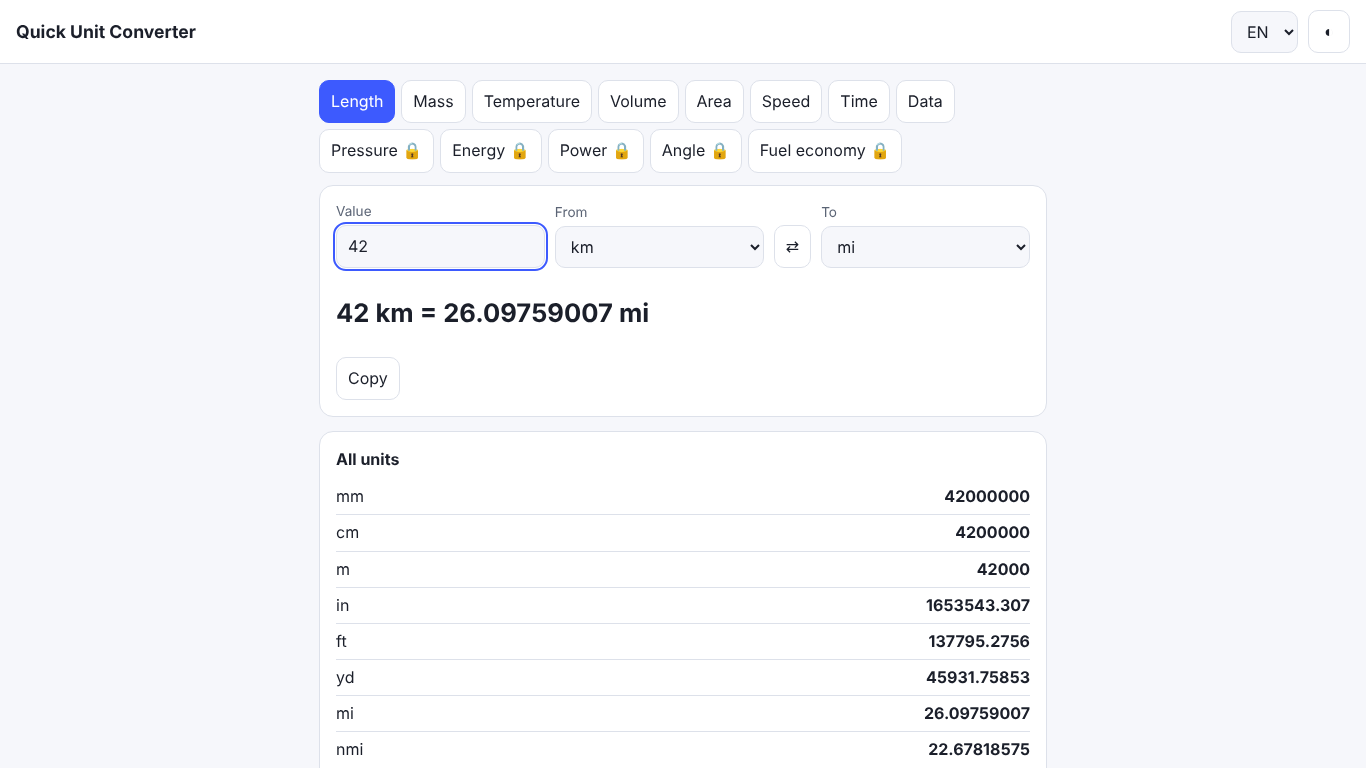
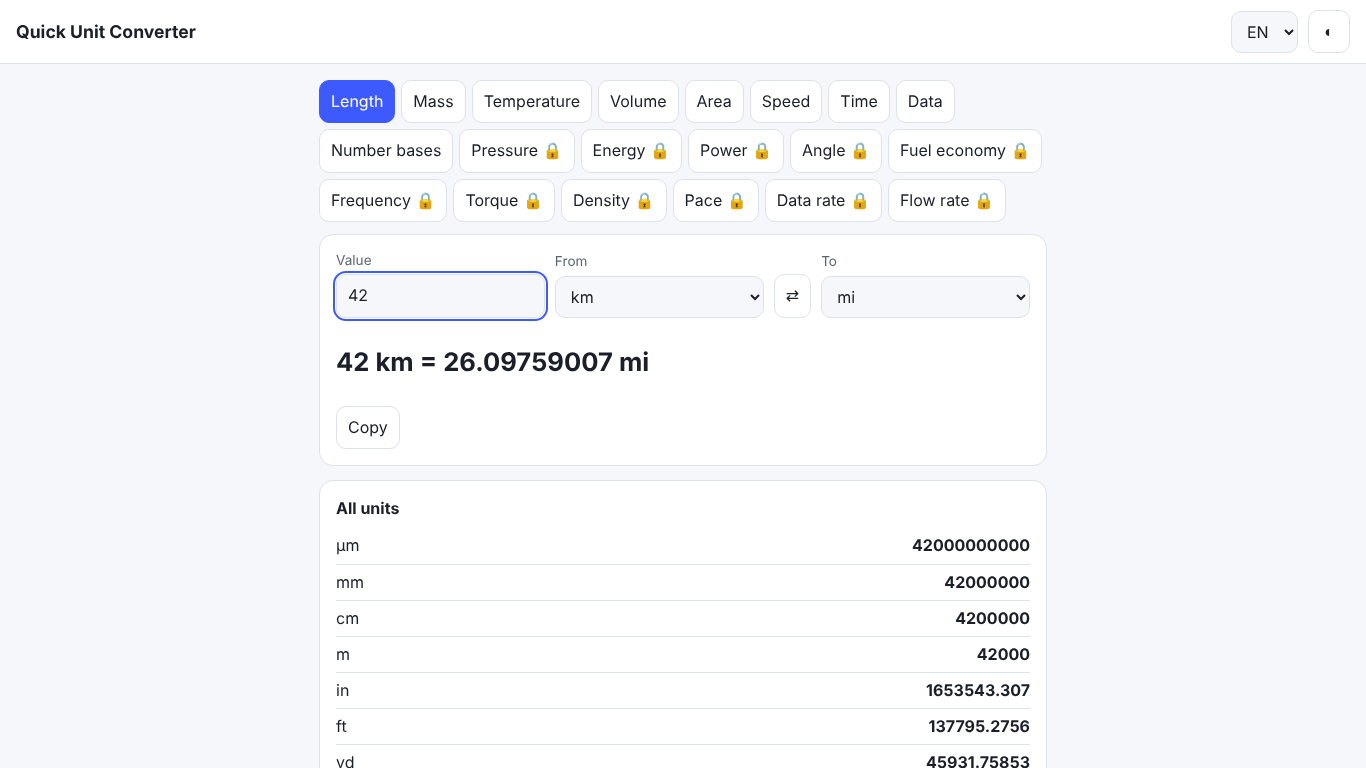
Stelar Unit Converter: number bases, pace and data rate
Free: new Number bases category (binary/octal/decimal/hex, BigInt, any size,
0b/0o/0x prefixes, swap keeps the value), plus µm, carat, US pint and quart.
Pro: running pace (min/km, min/mi, km/h, mph; m:ss input and output) and
data rate (bit/s ... GB/s, MiB/s). Unit + e2e tests, store what's new texts,
regenerated converter screenshots.

Claude-Session: https://claude.ai/code/session_01YQDvpoPGKtNh935CpkWmt1

diff --git a/convertor/app.js b/convertor/app.js
@@ -2,23 +2,26 @@
   'use strict';
   const SKU = 'pro';
   const DICT = {
-    ro: { appName: 'Convertor rapid de unități', value: 'Valoare', from: 'Din', to: 'În', swap: 'Inversează', allUnits: 'Toate unitățile', history: 'Istoric', historyLocked: 'Pro păstrează ultimele 30 de conversii.', proPitch: 'Deblochează presiune, energie, putere, unghi, consum, frecvență, cuplu, densitate și debit, plus istoricul conversiilor.', invalid: 'Introdu un număr',
-      length: 'Lungime', mass: 'Masă', temperature: 'Temperatură', volume: 'Volum', area: 'Suprafață', speed: 'Viteză', time: 'Timp', data: 'Date', pressure: 'Presiune', energy: 'Energie', power: 'Putere', angle: 'Unghi', fuel: 'Consum', frequency: 'Frecvență', torque: 'Cuplu', density: 'Densitate', flow: 'Debit' },
-    en: { appName: 'Quick Unit Converter', value: 'Value', from: 'From', to: 'To', swap: 'Swap', allUnits: 'All units', history: 'History', historyLocked: 'Pro keeps your last 30 conversions.', proPitch: 'Unlocks pressure, energy, power, angle, fuel economy, frequency, torque, density and flow rate, plus conversion history.', invalid: 'Enter a number',
-      length: 'Length', mass: 'Mass', temperature: 'Temperature', volume: 'Volume', area: 'Area', speed: 'Speed', time: 'Time', data: 'Data', pressure: 'Pressure', energy: 'Energy', power: 'Power', angle: 'Angle', fuel: 'Fuel economy', frequency: 'Frequency', torque: 'Torque', density: 'Density', flow: 'Flow rate' },
-    ru: { appName: 'Быстрый конвертер единиц', value: 'Значение', from: 'Из', to: 'В', swap: 'Поменять', allUnits: 'Все единицы', history: 'История', historyLocked: 'Pro хранит последние 30 конвертаций.', proPitch: 'Открывает давление, энергию, мощность, углы, расход топлива, частоту, крутящий момент, плотность и расход, а также историю.', invalid: 'Введите число',
-      length: 'Длина', mass: 'Масса', temperature: 'Температура', volume: 'Объём', area: 'Площадь', speed: 'Скорость', time: 'Время', data: 'Данные', pressure: 'Давление', energy: 'Энергия', power: 'Мощность', angle: 'Угол', fuel: 'Расход топлива', frequency: 'Частота', torque: 'Крутящий момент', density: 'Плотность', flow: 'Расход' }
+    ro: { appName: 'Convertor rapid de unități', value: 'Valoare', from: 'Din', to: 'În', swap: 'Inversează', allUnits: 'Toate unitățile', history: 'Istoric', historyLocked: 'Pro păstrează ultimele 30 de conversii.', proPitch: 'Deblochează presiune, energie, putere, unghi, consum, frecvență, cuplu, densitate, debit, ritm de alergare (min/km) și viteză de transfer, plus istoricul conversiilor.', invalid: 'Introdu un număr', invalidBase: 'Introdu un număr întreg valid în această bază', paceHint: 'Ritmul se poate scrie și ca minute:secunde, de ex. 5:30.', basesHint: 'Numere întregi de orice mărime; sunt acceptate prefixele 0b, 0o, 0x.',
+      length: 'Lungime', mass: 'Masă', temperature: 'Temperatură', volume: 'Volum', area: 'Suprafață', speed: 'Viteză', time: 'Timp', data: 'Date', bases: 'Baze numerice', pace: 'Ritm', datarate: 'Viteză de transfer', pressure: 'Presiune', energy: 'Energie', power: 'Putere', angle: 'Unghi', fuel: 'Consum', frequency: 'Frecvență', torque: 'Cuplu', density: 'Densitate', flow: 'Debit' },
+    en: { appName: 'Quick Unit Converter', value: 'Value', from: 'From', to: 'To', swap: 'Swap', allUnits: 'All units', history: 'History', historyLocked: 'Pro keeps your last 30 conversions.', proPitch: 'Unlocks pressure, energy, power, angle, fuel economy, frequency, torque, density, flow rate, running pace (min/km) and data rate, plus conversion history.', invalid: 'Enter a number', invalidBase: 'Enter a valid whole number in this base', paceHint: 'Pace can also be typed as minutes:seconds, e.g. 5:30.', basesHint: 'Whole numbers of any size; 0b, 0o and 0x prefixes are accepted.',
+      length: 'Length', mass: 'Mass', temperature: 'Temperature', volume: 'Volume', area: 'Area', speed: 'Speed', time: 'Time', data: 'Data', bases: 'Number bases', pace: 'Pace', datarate: 'Data rate', pressure: 'Pressure', energy: 'Energy', power: 'Power', angle: 'Angle', fuel: 'Fuel economy', frequency: 'Frequency', torque: 'Torque', density: 'Density', flow: 'Flow rate' },
+    ru: { appName: 'Быстрый конвертер единиц', value: 'Значение', from: 'Из', to: 'В', swap: 'Поменять', allUnits: 'Все единицы', history: 'История', historyLocked: 'Pro хранит последние 30 конвертаций.', proPitch: 'Открывает давление, энергию, мощность, углы, расход топлива, частоту, крутящий момент, плотность, расход, темп бега (мин/км) и скорость передачи данных, а также историю.', invalid: 'Введите число', invalidBase: 'Введите правильное целое число в этой системе', paceHint: 'Темп можно вводить как минуты:секунды, например 5:30.', basesHint: 'Целые числа любой длины; префиксы 0b, 0o и 0x допускаются.',
+      length: 'Длина', mass: 'Масса', temperature: 'Температура', volume: 'Объём', area: 'Площадь', speed: 'Скорость', time: 'Время', data: 'Данные', bases: 'Системы счисления', pace: 'Темп', datarate: 'Скорость передачи', pressure: 'Давление', energy: 'Энергия', power: 'Мощность', angle: 'Угол', fuel: 'Расход топлива', frequency: 'Частота', torque: 'Крутящий момент', density: 'Плотность', flow: 'Расход' }
   };
-  const LABEL = { C: '°C', F: '°F', K: 'K', m2: 'm²', cm2: 'cm²', km2: 'km²', ft2: 'ft²', mi2: 'mi²', m3: 'm³', mps: 'm/s', kmh: 'km/h', galUS: 'gal (US)', galUK: 'gal (UK)', floz: 'fl oz', l100: 'L/100 km', kml: 'km/L', mpgUS: 'mpg (US)', mpgUK: 'mpg (UK)', deg: '°', b: 'bit', B: 'byte', Nm: 'N·m', kNm: 'kN·m', kgfm: 'kgf·m', lbfft: 'lbf·ft', lbfin: 'lbf·in', kgm3: 'kg/m³', gcm3: 'g/cm³', gml: 'g/mL', gl: 'g/L', lbft3: 'lb/ft³', lbgalUS: 'lb/gal (US)', m3s: 'm³/s', m3h: 'm³/h', ls: 'L/s', lmin: 'L/min', galUSmin: 'gal/min (US)', cfm: 'ft³/min' };
-  const DEFAULTS = { length: ['km', 'mi'], mass: ['kg', 'lb'], temperature: ['C', 'F'], volume: ['l', 'galUS'], area: ['m2', 'ft2'], speed: ['kmh', 'mph'], time: ['h', 'min'], data: ['GB', 'MB'], pressure: ['bar', 'psi'], energy: ['kcal', 'kJ'], power: ['kW', 'hp'], angle: ['deg', 'rad'], fuel: ['l100', 'mpgUS'], frequency: ['rpm', 'Hz'], torque: ['Nm', 'lbfft'], density: ['gcm3', 'kgm3'], flow: ['lmin', 'galUSmin'] };
+  const LABEL = { C: '°C', F: '°F', K: 'K', m2: 'm²', cm2: 'cm²', km2: 'km²', ft2: 'ft²', mi2: 'mi²', m3: 'm³', mps: 'm/s', kmh: 'km/h', galUS: 'gal (US)', galUK: 'gal (UK)', floz: 'fl oz', l100: 'L/100 km', kml: 'km/L', mpgUS: 'mpg (US)', mpgUK: 'mpg (UK)', deg: '°', b: 'bit', B: 'byte', Nm: 'N·m', kNm: 'kN·m', kgfm: 'kgf·m', lbfft: 'lbf·ft', lbfin: 'lbf·in', kgm3: 'kg/m³', gcm3: 'g/cm³', gml: 'g/mL', gl: 'g/L', lbft3: 'lb/ft³', lbgalUS: 'lb/gal (US)', m3s: 'm³/s', m3h: 'm³/h', ls: 'L/s', lmin: 'L/min', galUSmin: 'gal/min (US)', cfm: 'ft³/min', um: 'µm', ct: 'ct', ptUS: 'pt (US)', qtUS: 'qt (US)', bin: 'BIN (2)', oct: 'OCT (8)', dec: 'DEC (10)', hex: 'HEX (16)', minkm: 'min/km', minmi: 'min/mi', bps: 'bit/s', kbps: 'kbit/s', Mbps: 'Mbit/s', Gbps: 'Gbit/s', Bps: 'B/s', kBps: 'kB/s', MBps: 'MB/s', GBps: 'GB/s', MiBps: 'MiB/s' };
+  const DEFAULTS = { length: ['km', 'mi'], mass: ['kg', 'lb'], temperature: ['C', 'F'], volume: ['l', 'galUS'], area: ['m2', 'ft2'], speed: ['kmh', 'mph'], time: ['h', 'min'], data: ['GB', 'MB'], bases: ['dec', 'hex'], pace: ['minkm', 'kmh'], datarate: ['Mbps', 'MBps'], pressure: ['bar', 'psi'], energy: ['kcal', 'kJ'], power: ['kW', 'hp'], angle: ['deg', 'rad'], fuel: ['l100', 'mpgUS'], frequency: ['rpm', 'Hz'], torque: ['Nm', 'lbfft'], density: ['gcm3', 'kgm3'], flow: ['lmin', 'galUSmin'] };
   const $ = id => document.getElementById(id);
   let cat = Core.store('cat') || 'length';
   let isPro = false;
   let history = [];
+  let lastFrom = null;
   try { history = JSON.parse(Core.store('history') || '[]'); } catch (e) { history = []; }
 
   const label = u => LABEL[u] || u;
-  const parse = s => Number(String(s).replace(/\s/g, '').replace(',', '.'));
+  const isPace = u => Units.PACE_UNITS.includes(u);
+  const parse = (s, unit) => isPace(unit) ? Units.parseMinSec(s) : Number(String(s).replace(/\s/g, '').replace(',', '.'));
+  const fmt = (n, unit) => isPace(unit) ? Units.formatMinSec(n) : Units.format(n);
 
   function renderTabs() {
     const box = $('cats'); box.innerHTML = '';
@@ -44,25 +47,45 @@
       units.forEach(u => { const o = document.createElement('option'); o.value = u; o.textContent = label(u); s.appendChild(o); });
       s.value = i ? t : f;
     });
+    lastFrom = $('from').value;
   }
   let histTimer = null;
-  function update() {
-    const v = parse($('value').value);
-    const from = $('from').value, to = $('to').value;
-    if (!Number.isFinite(v) || $('value').value.trim() === '') {
-      $('result').textContent = Core.t('invalid'); $('all').innerHTML = ''; return;
-    }
-    const r = Units.format(Units.convert(cat, from, to, v));
-    $('result').textContent = `${Units.format(v)} ${label(from)} = ${r} ${label(to)}`;
+  function renderHint() {
+    const textCat = !!Units.CATEGORIES[cat].text;
+    $('value').inputMode = textCat ? 'text' : 'decimal';
+    const hint = textCat ? 'basesHint' : cat === 'pace' ? 'paceHint' : '';
+    $('hint').textContent = hint ? Core.t(hint) : '';
+    $('hint').classList.toggle('hidden', !hint);
+  }
+  function listAll(from, valueOf) {
     const all = $('all'); all.innerHTML = '';
     Object.keys(Units.CATEGORIES[cat].units).forEach(u => {
       if (u === from) return;
       const li = document.createElement('li');
       li.innerHTML = '<span></span><strong></strong>';
       li.firstChild.textContent = label(u);
-      li.lastChild.textContent = Units.format(Units.convert(cat, from, u, v));
+      li.lastChild.textContent = valueOf(u);
       all.appendChild(li);
     });
+  }
+  function update() {
+    const raw = $('value').value;
+    const from = $('from').value, to = $('to').value;
+    renderHint();
+    if (Units.CATEGORIES[cat].text) {
+      const r = raw.trim() === '' ? null : Units.convertBase(raw, from, to);
+      if (r === null) { $('result').textContent = Core.t('invalidBase'); $('all').innerHTML = ''; return; }
+      $('result').textContent = `${Units.convertBase(raw, from, from)} ${label(from)} = ${r} ${label(to)}`;
+      listAll(from, u => Units.convertBase(raw, from, u));
+    } else {
+      const v = parse(raw, from);
+      if (!Number.isFinite(v) || raw.trim() === '') {
+        $('result').textContent = Core.t('invalid'); $('all').innerHTML = ''; return;
+      }
+      const r = fmt(Units.convert(cat, from, to, v), to);
+      $('result').textContent = `${fmt(v, from)} ${label(from)} = ${r} ${label(to)}`;
+      listAll(from, u => fmt(Units.convert(cat, from, u, v), u));
+    }
     if (isPro) {
       clearTimeout(histTimer);
       histTimer = setTimeout(() => addHistory($('result').textContent), 1200);
@@ -84,9 +107,23 @@
   if (!Units.CATEGORIES[cat] || Units.CATEGORIES[cat].pro) cat = 'length';
   renderTabs(); renderUnits(); update(); renderHistory();
   $('value').addEventListener('input', update);
-  $('from').addEventListener('change', update);
+  $('from').addEventListener('change', () => {
+    /* Number bases: keep the same number when the input base changes. */
+    if (Units.CATEGORIES[cat].text) {
+      const r = Units.convertBase($('value').value, lastFrom, $('from').value);
+      if (r !== null) $('value').value = r;
+    }
+    lastFrom = $('from').value; update();
+  });
   $('to').addEventListener('change', update);
-  $('swap').addEventListener('click', () => { const f = $('from').value; $('from').value = $('to').value; $('to').value = f; update(); });
+  $('swap').addEventListener('click', () => {
+    const f = $('from').value;
+    if (Units.CATEGORIES[cat].text) {
+      const r = Units.convertBase($('value').value, f, $('to').value);
+      if (r !== null) $('value').value = r;
+    }
+    $('from').value = $('to').value; $('to').value = f; lastFrom = $('from').value; update();
+  });
   $('copy').addEventListener('click', async () => {
     try { await navigator.clipboard.writeText($('result').textContent); $('copy').textContent = Core.t('copied'); setTimeout(() => { $('copy').textContent = Core.t('copy'); }, 1200); } catch (e) { /* clipboard blocked */ }
   });

diff --git a/convertor/logic.js b/convertor/logic.js
@@ -2,14 +2,16 @@
 (function (global) {
   'use strict';
   const C = {
-    length: { pro: false, base: 'm', units: { mm: 0.001, cm: 0.01, m: 1, km: 1000, in: 0.0254, ft: 0.3048, yd: 0.9144, mi: 1609.344, nmi: 1852 } },
-    mass: { pro: false, base: 'kg', units: { mg: 1e-6, g: 0.001, kg: 1, t: 1000, oz: 0.028349523125, lb: 0.45359237, st: 6.35029318 } },
+    length: { pro: false, base: 'm', units: { um: 1e-6, mm: 0.001, cm: 0.01, m: 1, km: 1000, in: 0.0254, ft: 0.3048, yd: 0.9144, mi: 1609.344, nmi: 1852 } },
+    mass: { pro: false, base: 'kg', units: { mg: 1e-6, ct: 0.0002, g: 0.001, kg: 1, t: 1000, oz: 0.028349523125, lb: 0.45359237, st: 6.35029318 } },
     temperature: { pro: false, base: 'C', units: { C: null, F: null, K: null } },
-    volume: { pro: false, base: 'l', units: { ml: 0.001, l: 1, m3: 1000, tsp: 0.00492892159375, tbsp: 0.01478676478125, cup: 0.2365882365, floz: 0.0295735295625, galUS: 3.785411784, galUK: 4.54609 } },
+    volume: { pro: false, base: 'l', units: { ml: 0.001, l: 1, m3: 1000, tsp: 0.00492892159375, tbsp: 0.01478676478125, cup: 0.2365882365, floz: 0.0295735295625, ptUS: 0.473176473, qtUS: 0.946352946, galUS: 3.785411784, galUK: 4.54609 } },
     area: { pro: false, base: 'm2', units: { cm2: 1e-4, m2: 1, ha: 1e4, km2: 1e6, ft2: 0.09290304, ac: 4046.8564224, mi2: 2589988.110336 } },
     speed: { pro: false, base: 'mps', units: { mps: 1, kmh: 1 / 3.6, mph: 0.44704, kn: 1852 / 3600 } },
     time: { pro: false, base: 's', units: { ms: 0.001, s: 1, min: 60, h: 3600, d: 86400, wk: 604800, yr: 31557600 } },
     data: { pro: false, base: 'B', units: { b: 0.125, B: 1, KB: 1e3, MB: 1e6, GB: 1e9, TB: 1e12, KiB: 1024, MiB: 1048576, GiB: 1073741824, TiB: 1099511627776 } },
+    /* Number bases convert text (integers of any size), see convertBase(); numerically they are identical. */
+    bases: { pro: false, text: true, base: 'dec', units: { bin: 2, oct: 8, dec: 10, hex: 16 } },
     pressure: { pro: true, base: 'Pa', units: { Pa: 1, kPa: 1000, bar: 1e5, atm: 101325, psi: 6894.757293168, mmHg: 133.322387415 } },
     energy: { pro: true, base: 'J', units: { J: 1, kJ: 1000, cal: 4.184, kcal: 4184, Wh: 3600, kWh: 3.6e6, BTU: 1055.05585262 } },
     power: { pro: true, base: 'W', units: { W: 1, kW: 1000, hp: 745.69987158227, PS: 735.49875 } },
@@ -18,10 +20,30 @@
     frequency: { pro: true, base: 'Hz', units: { Hz: 1, kHz: 1e3, MHz: 1e6, GHz: 1e9, rpm: 1 / 60 } },
     torque: { pro: true, base: 'Nm', units: { Nm: 1, kNm: 1000, kgfm: 9.80665, lbfft: 1.3558179483314004, lbfin: 0.1129848290276167 } },
     density: { pro: true, base: 'kgm3', units: { kgm3: 1, gcm3: 1000, gml: 1000, gl: 1, lbft3: 16.01846337396014, lbgalUS: 119.82642731689663 } },
+    pace: { pro: true, base: 'kmh', units: { minkm: null, minmi: null, kmh: null, mph: null } },
+    datarate: { pro: true, base: 'bps', units: { bps: 1, kbps: 1e3, Mbps: 1e6, Gbps: 1e9, Bps: 8, kBps: 8e3, MBps: 8e6, GBps: 8e9, MiBps: 8388608 } },
     flow: { pro: true, base: 'm3s', units: { m3s: 1, m3h: 1 / 3600, ls: 0.001, lmin: 0.001 / 60, galUSmin: 3.785411784e-3 / 60, cfm: 0.028316846592 / 60 } }
   };
 
+  const MI_KM = 1.609344;
+  /* Pace <-> speed: min/km = 60 / (km/h); the same formula works in both directions. */
+  function pace(unit, v) {
+    if (unit === 'kmh') return v;
+    if (unit === 'mph') return v * MI_KM;
+    if (v === 0) return Infinity;
+    if (unit === 'minkm') return 60 / v;
+    return 60 * MI_KM / v; /* minmi */
+  }
+  function paceFrom(unit, kmh) {
+    if (unit === 'kmh') return kmh;
+    if (unit === 'mph') return kmh / MI_KM;
+    if (kmh === 0) return Infinity;
+    if (unit === 'minkm') return 60 / kmh;
+    return 60 * MI_KM / kmh;
+  }
   function toBase(cat, unit, v) {
+    if (C[cat].text) return v;
+    if (cat === 'pace') return pace(unit, v);
     if (cat === 'temperature') return unit === 'C' ? v : unit === 'F' ? (v - 32) * 5 / 9 : v - 273.15;
     if (cat === 'fuel') {
       if (unit === 'l100') return v;
@@ -33,6 +55,8 @@
     return v * C[cat].units[unit];
   }
   function fromBase(cat, unit, v) {
+    if (C[cat].text) return v;
+    if (cat === 'pace') return paceFrom(unit, v);
     if (cat === 'temperature') return unit === 'C' ? v : unit === 'F' ? v * 9 / 5 + 32 : v + 273.15;
     if (cat === 'fuel') {
       if (unit === 'l100') return v;
@@ -58,11 +82,48 @@
     if (abs >= 1e15 || abs < 1e-9) return n.toExponential(Math.max(0, (sig || 10) - 1)).replace(/\.?0+e/, 'e');
     return String(Number(n.toPrecision(sig || 10)));
   }
+  /* Converts an integer written in one base to another. Accepts a sign, spaces/underscores and 0b/0o/0x prefixes.
+     Returns null for invalid input. Uses BigInt, so there is no size limit. */
+  function convertBase(str, from, to) {
+    const fr = C.bases.units[from], tr = C.bases.units[to];
+    if (!fr || !tr) throw new Error('Unknown unit');
+    let s = String(str).replace(/[\s_]/g, '').toLowerCase();
+    let neg = false;
+    if (s[0] === '-' || s[0] === '+') { neg = s[0] === '-'; s = s.slice(1); }
+    const prefix = { 2: '0b', 8: '0o', 16: '0x' }[fr];
+    if (prefix && s.startsWith(prefix)) s = s.slice(2);
+    if (!s) return null;
+    const digits = '0123456789abcdef'.slice(0, fr);
+    let n = 0n;
+    const big = BigInt(fr);
+    for (const ch of s) {
+      const d = digits.indexOf(ch);
+      if (d < 0) return null;
+      n = n * big + BigInt(d);
+    }
+    const out = n.toString(tr).toUpperCase();
+    return (neg && n !== 0n ? '-' : '') + out;
+  }
+  /* Reads "5:30" (minutes:seconds) as 5.5; plain numbers pass through. */
+  function parseMinSec(s) {
+    const m = /^\s*(\d+):([0-5]?\d(?:[.,]\d+)?)\s*$/.exec(String(s));
+    if (!m) return Number(String(s).replace(/\s/g, '').replace(',', '.'));
+    return Number(m[1]) + Number(m[2].replace(',', '.')) / 60;
+  }
+  /* 5.5 -> "5:30" */
+  function formatMinSec(min) {
+    if (!Number.isFinite(min)) return min === Infinity ? '∞' : '—';
+    let total = Math.round(Math.abs(min) * 60);
+    const h = Math.floor(total / 3600); total -= h * 3600;
+    const m = Math.floor(total / 60), sec = total % 60;
+    const ss = String(sec).padStart(2, '0');
+    return (min < 0 ? '-' : '') + (h ? `${h}:${String(m).padStart(2, '0')}:${ss}` : `${m}:${ss}`);
+  }
   function categories(includePro) {
     return Object.keys(C).filter(k => includePro || !C[k].pro);
   }
 
-  const api = { CATEGORIES: C, convert, format, categories };
+  const api = { CATEGORIES: C, convert, format, categories, convertBase, parseMinSec, formatMinSec, PACE_UNITS: ['minkm', 'minmi'] };
   if (typeof module !== 'undefined' && module.exports) module.exports = api;
   else global.Units = api;
 })(typeof window !== 'undefined' ? window : globalThis);

diff --git a/tests/unit.test.js b/tests/unit.test.js
@@ -334,3 +334,35 @@ test('text v1.1: shuffle, sort by length (free); CSV ↔ JSON, HTML escape (Pro)
   assert.equal(T.pro.csvToJson(T.pro.jsonToCsv('[{"q":"say \\"hi\\"\\nnow"}]')), JSON.stringify([{ q: 'say "hi"\nnow' }], null, 2));
   assert.equal(T.pro.htmlEscape('<a href="x">Tom & \'Jerry\'</a>'), '&lt;a href=&quot;x&quot;&gt;Tom &amp; &#39;Jerry&#39;&lt;/a&gt;');
 });
+
+test('converter v1.2: number bases, new units (free); pace and data rate (Pro)', () => {
+  assert.equal(U.convertBase('255', 'dec', 'hex'), 'FF');
+  assert.equal(U.convertBase('0xff', 'hex', 'bin'), '11111111');
+  assert.equal(U.convertBase('1111 0000', 'bin', 'oct'), '360');
+  assert.equal(U.convertBase('-42', 'dec', 'bin'), '-101010');
+  assert.equal(U.convertBase('-0', 'dec', 'hex'), '0');
+  assert.equal(U.convertBase('18446744073709551615', 'dec', 'hex'), 'FFFFFFFFFFFFFFFF');
+  assert.equal(U.convertBase('12a', 'dec', 'hex'), null);
+  assert.equal(U.convertBase('102', 'bin', 'dec'), null);
+  assert.equal(U.convertBase('', 'dec', 'hex'), null);
+  assert.throws(() => U.convertBase('1', 'dec', 'b36'));
+  assert.ok(U.categories(false).includes('bases'));
+  close(U.convert('length', 'um', 'mm', 1500), 1.5);
+  close(U.convert('mass', 'ct', 'g', 5), 1);
+  close(U.convert('volume', 'qtUS', 'ptUS', 1), 2);
+  close(U.convert('volume', 'ptUS', 'cup', 1), 2);
+  close(U.convert('pace', 'minkm', 'kmh', 5), 12);
+  close(U.convert('pace', 'kmh', 'minmi', 12), 8.04672);
+  close(U.convert('pace', 'mph', 'minmi', 6), 10);
+  assert.equal(U.convert('pace', 'kmh', 'minkm', 0), Infinity);
+  assert.equal(U.parseMinSec('5:30'), 5.5);
+  assert.equal(U.parseMinSec('4,25'), 4.25);
+  assert.equal(U.formatMinSec(5.5), '5:30');
+  assert.equal(U.formatMinSec(8.04672), '8:03');
+  assert.equal(U.formatMinSec(75), '1:15:00');
+  assert.equal(U.formatMinSec(Infinity), '∞');
+  close(U.convert('datarate', 'Mbps', 'MBps', 100), 12.5);
+  close(U.convert('datarate', 'Gbps', 'MiBps', 1), 119.20928955078125);
+  assert.equal(U.categories(false).includes('pace'), false);
+  assert.equal(U.categories(false).includes('datarate'), false);
+});

diff --git a/tests/e2e.js b/tests/e2e.js
@@ -166,6 +166,39 @@ async function newPage(browser, base, opts = {}) {
     await ctx.close();
   });
 
+  await check('convertor v1.2: number bases (free), pace and data rate (Pro)', async () => {
+    let { ctx, page } = await newPage(browser, base);
+    await page.goto(base + 'convertor/');
+    await page.click('[data-cat="bases"]');
+    await page.fill('#value', '255');
+    assert.equal(await page.textContent('#result'), '255 DEC (10) = FF HEX (16)');
+    assert.match(await page.textContent('#all'), /BIN \(2\)11111111/);
+    assert.match(await page.textContent('#hint'), /0x/);
+    await page.click('#swap');
+    assert.equal(await page.inputValue('#value'), 'FF');
+    assert.equal(await page.textContent('#result'), 'FF HEX (16) = 255 DEC (10)');
+    await page.selectOption('#from', 'bin');
+    assert.equal(await page.inputValue('#value'), '11111111');
+    await page.fill('#value', '12');
+    assert.equal(await page.textContent('#result'), 'Enter a valid whole number in this base');
+    assert.match(await page.textContent('[data-cat="pace"]'), /🔒/);
+    assert.match(await page.textContent('[data-cat="datarate"]'), /🔒/);
+    assert.deepEqual(page.errors, []);
+    await ctx.close();
+    ({ ctx, page } = await newPage(browser, base, { pro: true }));
+    await page.goto(base + 'convertor/');
+    await page.waitForSelector('#proBox.hidden', { state: 'attached' });
+    await page.click('[data-cat="pace"]');
+    await page.fill('#value', '5:30');
+    assert.equal(await page.textContent('#result'), '5:30 min/km = 10.90909091 km/h');
+    assert.match(await page.textContent('#all'), /min\/mi8:51/);
+    await page.click('[data-cat="datarate"]');
+    await page.fill('#value', '100');
+    assert.equal(await page.textContent('#result'), '100 Mbit/s = 12.5 MB/s');
+    assert.deepEqual(page.errors, []);
+    await ctx.close();
+  });
+
   await check('focus: full work session moves to a short break and counts', async () => {
     const { ctx, page } = await newPage(browser, base);
     await page.clock.install({ time: new Date('2026-11-04T10:00:00') });

diff --git a/convertor/index.html b/convertor/index.html
@@ -4,7 +4,7 @@
 <meta charset="utf-8">
 <meta name="viewport" content="width=device-width, initial-scale=1">
 <title>Quick Unit Converter</title>
-<meta name="description" content="Fast offline unit converter: length, mass, temperature, volume, area, speed, time and data.">
+<meta name="description" content="Fast offline unit converter: length, mass, temperature, volume, area, speed, time, data and number bases.">
 <meta name="theme-color" content="#3d5afe">
 <link rel="manifest" href="manifest.webmanifest">
 <link rel="icon" href="icons/icon-192.png">
@@ -28,6 +28,7 @@
       <div style="flex:0 0 auto"><button id="swap" data-i18n-aria="swap" aria-label="Swap">⇄</button></div>
       <div><label for="to" data-i18n="to">To</label><select id="to"></select></div>
     </div>
+    <p class="muted hidden" id="hint"></p>
     <p class="big" id="result" aria-live="polite"></p>
     <button id="copy" data-i18n="copy">Copy</button>
   </section>
@@ -42,7 +43,7 @@
   </section>
   <section class="card pro-box hidden" id="proBox">
     <h2 style="font-size:1rem;margin:0 0 6px" data-i18n="proTitle">Pro version</h2>
-    <p class="muted" data-i18n="proPitch">Unlocks pressure, energy, power, angle, fuel economy, frequency, torque, density and flow rate, plus conversion history.</p>
+    <p class="muted" data-i18n="proPitch">Unlocks pressure, energy, power, angle, fuel economy, frequency, torque, density, flow rate, running pace (min/km) and data rate, plus conversion history.</p>
     <button class="primary" id="proBuy" data-i18n="proBuy">Unlock Pro</button>
     <p class="muted" id="proStatus"></p>
   </section>

diff --git a/store/listing.md b/store/listing.md
@@ -46,6 +46,19 @@ Pro (cumpărare unică): presiune, energie, putere, unghi și consum de carburan
 • Без аккаунта, рекламы и слежки
 Pro (разовая покупка): давление, энергия, мощность, углы и расход топлива (л/100 км, км/л, mpg US/UK), а также история последних 30 конвертаций.
 
+**Update 1.2 — What's new:**
+EN: New free category: number bases (binary, octal, decimal, hex, whole numbers of any size), plus µm, carats and US pints and quarts. Pro: running pace (min/km, min/mi, typed as 5:30) and data rate (Mbit/s, MB/s, MiB/s and more).
+RO: Categorie gratuită nouă: baze numerice (binar, octal, zecimal, hex, numere întregi de orice mărime), plus µm, carate și pinte și quarts US. Pro: ritm de alergare (min/km, min/mi, scris ca 5:30) și viteză de transfer (Mbit/s, MB/s, MiB/s și altele).
+RU: Новая бесплатная категория: системы счисления (двоичная, восьмеричная, десятичная, шестнадцатеричная, целые числа любой длины), а также мкм, караты и пинты и кварты США. Pro: темп бега (мин/км, мин/миля, ввод как 5:30) и скорость передачи данных (Мбит/с, МБ/с, МиБ/с и другие).
+
+**Updated description lines (1.2):**
+EN: • Length, mass, temperature, volume, area, speed, time, data (KB/MB/GB and KiB/MiB/GiB) and number bases (binary, octal, decimal, hex)
+EN: Pro (one-time add-on): pressure, energy, power, angle, fuel economy (L/100 km, km/L, mpg US/UK), frequency, torque, density, flow rate, running pace and data rate, plus a history of your last 30 conversions.
+RO: • Lungime, masă, temperatură, volum, suprafață, viteză, timp, date (KB/MB/GB și KiB/MiB/GiB) și baze numerice (binar, octal, zecimal, hex)
+RO: Pro (cumpărare unică): presiune, energie, putere, unghi, consum de carburant (L/100 km, km/L, mpg US/UK), frecvență, cuplu, densitate, debit, ritm de alergare și viteză de transfer, plus istoricul ultimelor 30 de conversii.
+RU: • Длина, масса, температура, объём, площадь, скорость, время, данные (КБ/МБ/ГБ и КиБ/МиБ/ГиБ) и системы счисления (двоичная, восьмеричная, десятичная, шестнадцатеричная)
+RU: Pro (разовая покупка): давление, энергия, мощность, углы, расход топлива (л/100 км, км/л, mpg US/UK), частота, крутящий момент, плотность, расход, темп бега и скорость передачи данных, а также история последних 30 конвертаций.
+
 ---
 
 ## 2. Stelar Focus Timer (`focus/`)
